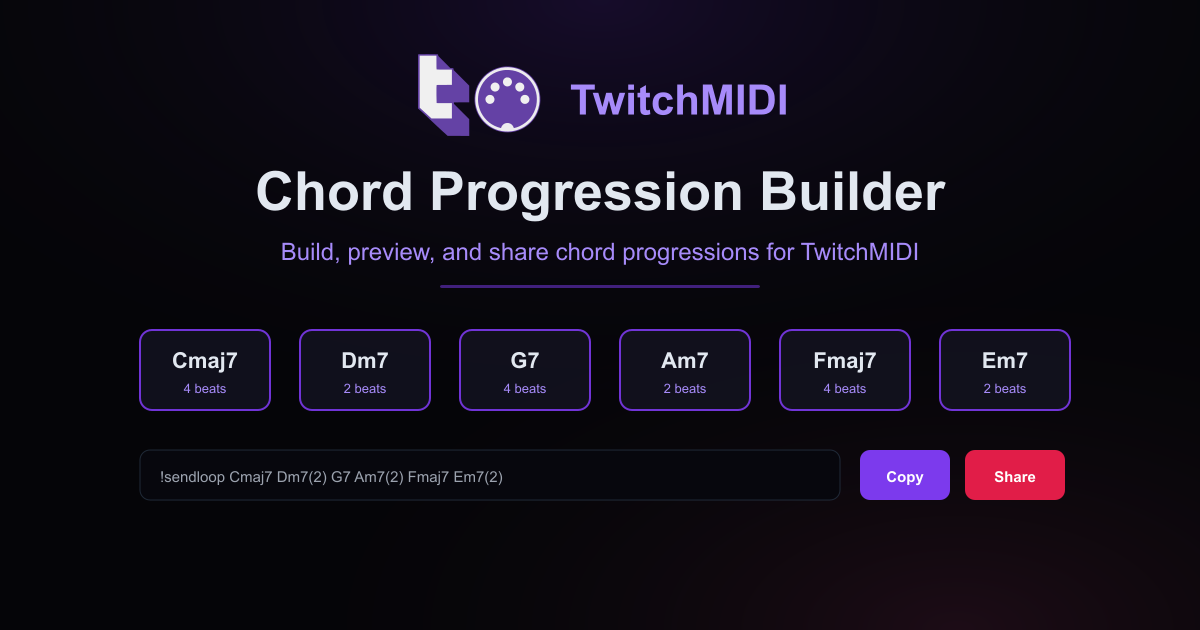
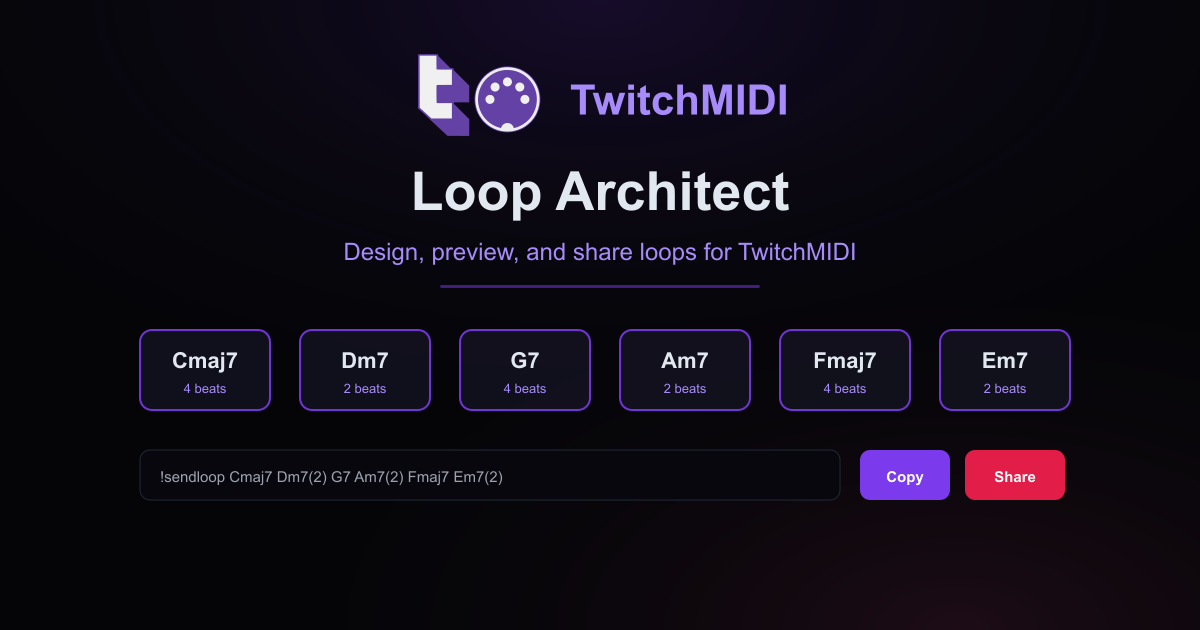
feat: Rename to Loop Architect from Chord Progression Builder

Changed region(s): [[0.2158, 0.2714, 0.8017, 0.3619], [0.2158, 0.3619, 0.7708, 0.4222]]

diff --git a/src/lib/i18n.ts b/src/lib/i18n.ts
@@ -6,7 +6,7 @@ export type Locale = "en" | "es";
 const translations = {
   en: {
     // Header
-    title: "Chord Progression Builder",
+    title: "Loop Architect",
 
     // Time Signature
     timeSignature: "Time Signature",
@@ -77,7 +77,7 @@ const translations = {
   },
   es: {
     // Header
-    title: "Constructor de Progresiones de Acordes",
+    title: "Loop Architect",
 
     // Time Signature
     timeSignature: "Compas",
